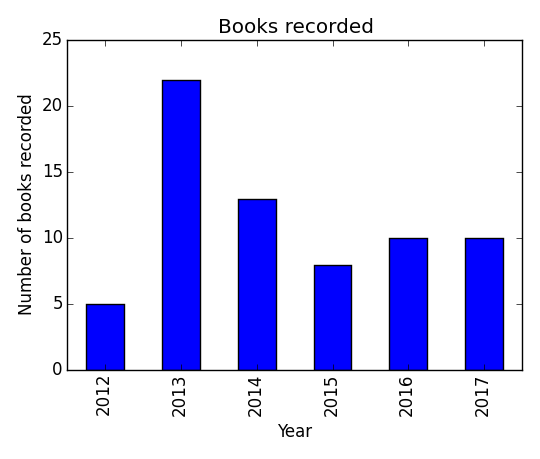
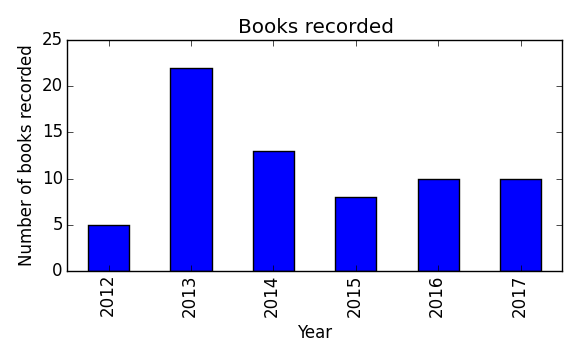
edit aspect

Changed region(s): [[0.0296, 0.0306, 0.9778, 0.9778]]

diff --git a/generate_Readme.py b/generate_Readme.py
@@ -49,7 +49,7 @@ df2.year = pd.Series(df2.index).apply(lambda x: x.year)
 df2.index = df2.year
 
 my_dpi=100
-plt.figure(figsize=(540/my_dpi, 460/my_dpi), dpi=my_dpi)
+plt.figure(figsize=(580/my_dpi, 360/my_dpi), dpi=my_dpi)
 fig = df2.plot(kind='bar')
 fig.set_xlabel('Year')
 fig.set_ylabel('Number of books recorded')
